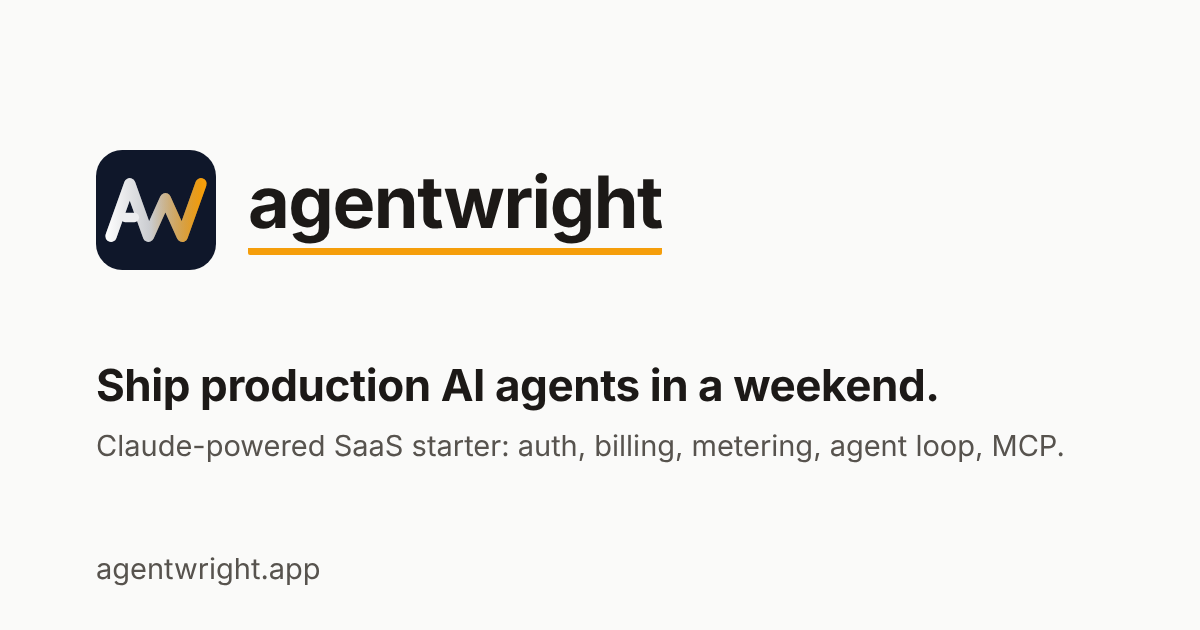
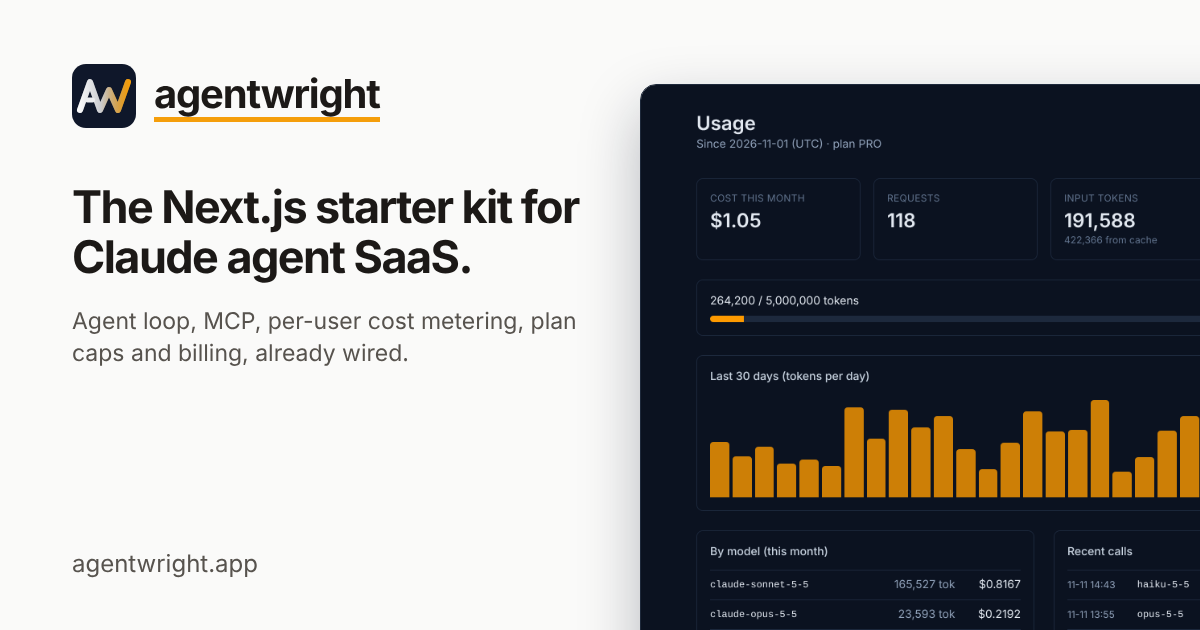
Review fixes: phone layouts, social preview image, small wording and escaping fixes
- /inside/ file map stacks on a phone; the compare table's name column no longer overlaps.
- Narrower nav gap under 420px so the six links stay on one row.
- New og.png with the product screenshot and the current headline (v=3).
- README notes in the file map render inline code; thanks page footer has the compare link.
- Cost calculator text names all four models; one unstyled link gets the site link colour.

Claude-Session: https://claude.ai/code/session_01Ex3FACyPrCnmqv3H8fsGR4

diff --git a/tools/claude-api-cost-calculator/index.html b/tools/claude-api-cost-calculator/index.html
@@ -4,7 +4,7 @@
 <meta charset="utf-8">
 <meta name="viewport" content="width=device-width, initial-scale=1">
 <title>Claude API Cost Calculator — monthly and per-user cost for Opus, Sonnet and Haiku 5.5</title>
-<meta name="description" content="Free Claude API pricing calculator. Enter requests per month, input/output tokens and prompt-cache hit rate to get monthly cost, cost per request and cost per user for Claude Opus 5.5, Sonnet 5.5 and Haiku 5.5. Shareable results.">
+<meta name="description" content="Free Claude API pricing calculator. Enter requests per month, input/output tokens and prompt-cache hit rate to get monthly cost, cost per request and cost per user for Claude Fable 5.2, Opus 5.5, Sonnet 5.5 and Haiku 5.5. Shareable results.">
 <link rel="canonical" href="https://agentwright.app/tools/claude-api-cost-calculator/">
 <link rel="alternate" type="application/rss+xml" title="Agentwright blog" href="/feed.xml">
 <link rel="icon" href="/favicon.ico?v=2" sizes="32x32">
@@ -15,15 +15,15 @@
 <meta property="og:site_name" content="Agentwright">
 <meta property="og:type" content="website">
 <meta property="og:title" content="Claude API Cost Calculator">
-<meta property="og:description" content="Monthly, per-request and per-user cost for Claude Opus 5.5, Sonnet 5.5 and Haiku 5.5, with prompt caching and Batch API. Official prices, shareable link.">
+<meta property="og:description" content="Monthly, per-request and per-user cost for Claude Fable 5.2, Opus 5.5, Sonnet 5.5 and Haiku 5.5, with prompt caching and Batch API. Official prices, shareable link.">
 <meta property="og:url" content="https://agentwright.app/tools/claude-api-cost-calculator/">
-<meta property="og:image" content="https://agentwright.app/og.png?v=2">
+<meta property="og:image" content="https://agentwright.app/og.png?v=3">
 <meta property="og:image:width" content="1200">
 <meta property="og:image:height" content="630">
-<meta name="twitter:image" content="https://agentwright.app/og.png?v=2">
+<meta name="twitter:image" content="https://agentwright.app/og.png?v=3">
 <meta name="twitter:card" content="summary_large_image">
 <meta name="twitter:title" content="Claude API Cost Calculator">
-<meta name="twitter:description" content="Monthly, per-request and per-user cost for Claude Opus 5.5, Sonnet 5.5 and Haiku 5.5, with prompt caching and Batch API.">
+<meta name="twitter:description" content="Monthly, per-request and per-user cost for Claude Fable 5.2, Opus 5.5, Sonnet 5.5 and Haiku 5.5, with prompt caching and Batch API.">
 <script type="application/ld+json">{"@context":"https://schema.org","@type":"WebApplication","name":"Claude API Cost Calculator","url":"https://agentwright.app/tools/claude-api-cost-calculator/","applicationCategory":"DeveloperApplication","operatingSystem":"Any","offers":{"@type":"Offer","price":"0","priceCurrency":"USD"},"publisher":{"@type":"Organization","name":"Agentwright","url":"https://agentwright.app"}}</script>
 <link rel="preconnect" href="https://fonts.googleapis.com">
 <link href="https://fonts.googleapis.com/css2?family=Inter:wght@400;500;600;700&family=JetBrains+Mono:wght@400;500&display=swap" rel="stylesheet">
@@ -35,7 +35,7 @@
 .wrap{max-width:1040px;margin:0 auto;padding:0 16px}
 header{display:flex;justify-content:space-between;align-items:center;padding:20px 0;flex-wrap:wrap;gap:10px 20px}
 .logo{font-weight:700;font-size:20px;letter-spacing:-.02em;text-decoration:none;color:var(--ink);border-bottom:3px solid var(--accent);line-height:1}
-nav{display:flex;flex-wrap:wrap;gap:6px 20px}nav a{color:var(--muted);text-decoration:none;font-size:15px;white-space:nowrap}
+nav{display:flex;flex-wrap:wrap;gap:6px 20px}@media (max-width:420px){nav{gap:6px 14px}}nav a{color:var(--muted);text-decoration:none;font-size:15px;white-space:nowrap}
 main{padding:16px 0 48px}
 h1{font-size:clamp(28px,5vw,42px);line-height:1.12;letter-spacing:-.03em;margin:16px 0 10px}
 .lede{font-size:18px;color:var(--muted);max-width:720px;margin:0 0 28px}
@@ -85,7 +85,7 @@ footer a{color:inherit}
 <header><a class="logo" href="/">agentwright</a><nav><a href="/inside/">What's inside</a><a href="/#pricing">Pricing</a><a href="/docs/">Docs</a><a href="/tools/">Tools</a><a href="/blog/">Blog</a><a href="/faq/">FAQ</a></nav></header>
 <main>
 <h1>Claude API Cost Calculator</h1>
-<p class="lede">Estimate what a Claude-powered feature costs per month, per request and per user. Uses the official Claude API prices for Opus 5.5, Sonnet 5.5 and Haiku 5.5, including prompt caching and the Batch API discount. Change any input and the link updates, so you can share the result.</p>
+<p class="lede">Estimate what a Claude-powered feature costs per month, per request and per user. Uses the official Claude API prices for Fable 5.2, Opus 5.5, Sonnet 5.5 and Haiku 5.5, including prompt caching and the Batch API discount. Change any input and the link updates, so you can share the result.</p>
 
 <div class="layout">
 <form class="panel" id="f" onsubmit="return false">
@@ -123,7 +123,7 @@ footer a{color:inherit}
 <div class="panel" style="margin-top:20px">
 <h2>Same workload on each model</h2>
 <table><thead><tr><th>Model</th><th class="n">Monthly</th><th class="n">Per user</th><th class="n">Per request</th></tr></thead><tbody id="cmp"></tbody></table>
-<p class="note">Prices updated <strong id="updated"></strong> from the <a id="src" href="#" style="color:var(--link)">official pricing page</a>. Cache reads are billed at $0.20 (Opus 5.5), $0.10 (Sonnet 5.5) and $0.01 (Haiku 5.5) per million tokens. Haiku 5.5 requests with a prompt over 100,000 tokens use the higher long-prompt tier automatically.</p>
+<p class="note">Prices updated <strong id="updated"></strong> from the <a id="src" href="#" style="color:var(--link)">official pricing page</a>. Cache reads are billed at $0.20 (Fable 5.2 and Opus 5.5), $0.10 (Sonnet 5.5) and $0.01 (Haiku 5.5) per million tokens. Haiku 5.5 requests with a prompt over 100,000 tokens use the higher long-prompt tier automatically.</p>
 </div>
 </div>
 </div>

diff --git a/thanks.html b/thanks.html
@@ -20,7 +20,7 @@
 .wrap{max-width:1040px;margin:0 auto;padding:0 16px}
 header{display:flex;justify-content:space-between;align-items:center;padding:20px 0;flex-wrap:wrap;gap:10px 20px}
 .logo{font-weight:700;font-size:20px;letter-spacing:-.02em;text-decoration:none;color:var(--ink);border-bottom:3px solid var(--accent);line-height:1}
-nav{display:flex;flex-wrap:wrap;gap:6px 20px}nav a{color:var(--muted);text-decoration:none;font-size:15px;white-space:nowrap}
+nav{display:flex;flex-wrap:wrap;gap:6px 20px}@media (max-width:420px){nav{gap:6px 14px}}nav a{color:var(--muted);text-decoration:none;font-size:15px;white-space:nowrap}
 main{max-width:640px;margin:0 auto;padding:40px 0 48px}
 h1{font-size:clamp(28px,5vw,38px);line-height:1.12;letter-spacing:-.03em;margin:0 0 10px}
 .lede{font-size:18px;color:var(--muted);margin:0 0 28px}
@@ -100,7 +100,7 @@ footer{padding:40px 0;color:var(--muted);font-size:14px;border-top:1px solid var
 </div>
 </main>
 
-<footer>© 2026 Agentwright · <a href="/inside/" style="color:inherit">What's inside</a> · <a href="/docs/" style="color:inherit">Docs</a> · <a href="/changelog/" style="color:inherit">Changelog</a> · <a href="/tools/" style="color:inherit">Tools</a> · <a href="/blog/" style="color:inherit">Blog</a> · <a href="/feed.xml" style="color:inherit">RSS</a> · <a href="/faq/" style="color:inherit">FAQ</a> · <a href="/legal/" style="color:inherit">Refunds &amp; license</a> · <a href="/terms/" style="color:inherit">Terms</a> · <a href="/privacy/" style="color:inherit">Privacy</a> · <a href="mailto:hello@agentwright.app" style="color:inherit">hello@agentwright.app</a></footer>
+<footer>© 2026 Agentwright · <a href="/inside/" style="color:inherit">What's inside</a> · <a href="/docs/" style="color:inherit">Docs</a> · <a href="/changelog/" style="color:inherit">Changelog</a> · <a href="/compare/ai-saas-boilerplates/" style="color:inherit">Compare kits</a> · <a href="/tools/" style="color:inherit">Tools</a> · <a href="/blog/" style="color:inherit">Blog</a> · <a href="/feed.xml" style="color:inherit">RSS</a> · <a href="/faq/" style="color:inherit">FAQ</a> · <a href="/legal/" style="color:inherit">Refunds &amp; license</a> · <a href="/terms/" style="color:inherit">Terms</a> · <a href="/privacy/" style="color:inherit">Privacy</a> · <a href="mailto:hello@agentwright.app" style="color:inherit">hello@agentwright.app</a></footer>
 </div>
 <script>
 (function(){

diff --git a/tools/prompt-caching-savings-calculator/index.html b/tools/prompt-caching-savings-calculator/index.html
@@ -17,10 +17,10 @@
 <meta property="og:title" content="Prompt Caching Savings Calculator">
 <meta property="og:description" content="See how much Claude prompt caching saves on your workload, and how many calls per cache window you need to break even.">
 <meta property="og:url" content="https://agentwright.app/tools/prompt-caching-savings-calculator/">
-<meta property="og:image" content="https://agentwright.app/og.png?v=2">
+<meta property="og:image" content="https://agentwright.app/og.png?v=3">
 <meta property="og:image:width" content="1200">
 <meta property="og:image:height" content="630">
-<meta name="twitter:image" content="https://agentwright.app/og.png?v=2">
+<meta name="twitter:image" content="https://agentwright.app/og.png?v=3">
 <meta name="twitter:card" content="summary_large_image">
 <meta name="twitter:title" content="Prompt Caching Savings Calculator">
 <meta name="twitter:description" content="See how much Claude prompt caching saves on your workload, and how many calls per cache window you need to break even.">
@@ -35,7 +35,7 @@
 .wrap{max-width:1040px;margin:0 auto;padding:0 16px}
 header{display:flex;justify-content:space-between;align-items:center;padding:20px 0;flex-wrap:wrap;gap:10px 20px}
 .logo{font-weight:700;font-size:20px;letter-spacing:-.02em;text-decoration:none;color:var(--ink);border-bottom:3px solid var(--accent);line-height:1}
-nav{display:flex;flex-wrap:wrap;gap:6px 20px}nav a{color:var(--muted);text-decoration:none;font-size:15px;white-space:nowrap}
+nav{display:flex;flex-wrap:wrap;gap:6px 20px}@media (max-width:420px){nav{gap:6px 14px}}nav a{color:var(--muted);text-decoration:none;font-size:15px;white-space:nowrap}
 main{padding:16px 0 48px}
 h1{font-size:clamp(28px,5vw,42px);line-height:1.12;letter-spacing:-.03em;margin:16px 0 10px}
 .lede{font-size:18px;color:var(--muted);max-width:720px;margin:0 0 28px}

diff --git a/tools/ai-saas-margin-calculator/index.html b/tools/ai-saas-margin-calculator/index.html
@@ -17,10 +17,10 @@
 <meta property="og:title" content="AI SaaS Margin Calculator">
 <meta property="og:description" content="Gross margin per user, break-even usage and the right usage cap for a Claude-powered subscription plan. Official Claude 5.5 prices, shareable link.">
 <meta property="og:url" content="https://agentwright.app/tools/ai-saas-margin-calculator/">
-<meta property="og:image" content="https://agentwright.app/og.png?v=2">
+<meta property="og:image" content="https://agentwright.app/og.png?v=3">
 <meta property="og:image:width" content="1200">
 <meta property="og:image:height" content="630">
-<meta name="twitter:image" content="https://agentwright.app/og.png?v=2">
+<meta name="twitter:image" content="https://agentwright.app/og.png?v=3">
 <meta name="twitter:card" content="summary_large_image">
 <meta name="twitter:title" content="AI SaaS Margin Calculator">
 <meta name="twitter:description" content="Gross margin per user, break-even usage and the right usage cap for a Claude-powered subscription plan.">
@@ -35,7 +35,7 @@
 .wrap{max-width:1040px;margin:0 auto;padding:0 16px}
 header{display:flex;justify-content:space-between;align-items:center;padding:20px 0;flex-wrap:wrap;gap:10px 20px}
 .logo{font-weight:700;font-size:20px;letter-spacing:-.02em;text-decoration:none;color:var(--ink);border-bottom:3px solid var(--accent);line-height:1}
-nav{display:flex;flex-wrap:wrap;gap:6px 20px}nav a{color:var(--muted);text-decoration:none;font-size:15px;white-space:nowrap}
+nav{display:flex;flex-wrap:wrap;gap:6px 20px}@media (max-width:420px){nav{gap:6px 14px}}nav a{color:var(--muted);text-decoration:none;font-size:15px;white-space:nowrap}
 main{padding:16px 0 48px}
 h1{font-size:clamp(28px,5vw,42px);line-height:1.12;letter-spacing:-.03em;margin:16px 0 10px}
 .lede{font-size:18px;color:var(--muted);max-width:720px;margin:0 0 28px}

diff --git a/tools/claude-pricing-mcp/index.html b/tools/claude-pricing-mcp/index.html
@@ -17,10 +17,10 @@
 <meta property="og:title" content="Claude Pricing MCP Server">
 <meta property="og:description" content="Free remote MCP server: current Claude API prices and cost estimates inside Claude, Cursor or any MCP client.">
 <meta property="og:url" content="https://agentwright.app/tools/claude-pricing-mcp/">
-<meta property="og:image" content="https://agentwright.app/og.png?v=2">
+<meta property="og:image" content="https://agentwright.app/og.png?v=3">
 <meta property="og:image:width" content="1200">
 <meta property="og:image:height" content="630">
-<meta name="twitter:image" content="https://agentwright.app/og.png?v=2">
+<meta name="twitter:image" content="https://agentwright.app/og.png?v=3">
 <meta name="twitter:card" content="summary_large_image">
 <meta name="twitter:title" content="Claude Pricing MCP Server">
 <meta name="twitter:description" content="Free remote MCP server: current Claude API prices and cost estimates inside Claude, Cursor or any MCP client.">
@@ -35,7 +35,7 @@
 .wrap{max-width:1040px;margin:0 auto;padding:0 16px}
 header{display:flex;justify-content:space-between;align-items:center;padding:20px 0;flex-wrap:wrap;gap:10px 20px}
 .logo{font-weight:700;font-size:20px;letter-spacing:-.02em;text-decoration:none;color:var(--ink);border-bottom:3px solid var(--accent);line-height:1}
-nav{display:flex;flex-wrap:wrap;gap:6px 20px}nav a{color:var(--muted);text-decoration:none;font-size:15px;white-space:nowrap}
+nav{display:flex;flex-wrap:wrap;gap:6px 20px}@media (max-width:420px){nav{gap:6px 14px}}nav a{color:var(--muted);text-decoration:none;font-size:15px;white-space:nowrap}
 main{padding:16px 0 48px}
 h1{font-size:clamp(28px,5vw,42px);line-height:1.12;letter-spacing:-.03em;margin:16px 0 10px}
 .lede{font-size:18px;color:var(--muted);max-width:720px;margin:0 0 28px}

diff --git a/index.html b/index.html
@@ -11,10 +11,10 @@
 <meta property="og:description" content="A streaming agent loop with tools and MCP, per-user cost metering with price snapshots, plan caps, auth and billing in one TypeScript codebase. Read the code before you buy.">
 <meta property="og:url" content="https://agentwright.app/">
 <meta property="og:site_name" content="Agentwright">
-<meta property="og:image" content="https://agentwright.app/og.png?v=2">
+<meta property="og:image" content="https://agentwright.app/og.png?v=3">
 <meta property="og:image:width" content="1200">
 <meta property="og:image:height" content="630">
-<meta name="twitter:image" content="https://agentwright.app/og.png?v=2">
+<meta name="twitter:image" content="https://agentwright.app/og.png?v=3">
 <meta name="twitter:card" content="summary_large_image">
 <link rel="alternate" type="application/rss+xml" title="Agentwright blog" href="/feed.xml">
 <link rel="icon" href="/favicon.ico?v=2" sizes="32x32">
@@ -33,7 +33,7 @@
 .wrap{max-width:1040px;margin:0 auto;padding:0 16px}
 header{display:flex;justify-content:space-between;align-items:center;padding:20px 0;flex-wrap:wrap;gap:10px 20px}
 .logo{font-weight:700;font-size:20px;letter-spacing:-.02em;text-decoration:none;color:var(--ink);border-bottom:3px solid var(--accent);line-height:1}
-nav{display:flex;flex-wrap:wrap;gap:6px 20px}nav a{color:var(--muted);text-decoration:none;font-size:15px;white-space:nowrap}
+nav{display:flex;flex-wrap:wrap;gap:6px 20px}@media (max-width:420px){nav{gap:6px 14px}}nav a{color:var(--muted);text-decoration:none;font-size:15px;white-space:nowrap}
 a{color:var(--link)}
 .hero{padding:56px 0 40px;text-align:center}
 .eyebrow{font-size:14px;font-weight:600;color:var(--muted);letter-spacing:.02em;margin:0 0 14px}
